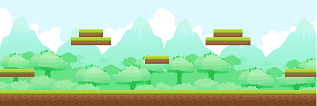
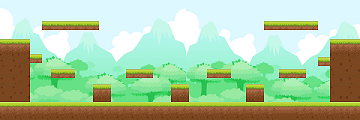
fix/ map fixes (#117)
* removed debuglines on maps

* added new picture for in controlsScreen. Animal now have healthBar

* modified maps to fit smaller animals. Changed images in Maps-menu to match new maps

diff --git a/game/core/src/ntnu/gruppe22/game/maps/Map.java b/game/core/src/ntnu/gruppe22/game/maps/Map.java
@@ -27,7 +27,6 @@ public class Map{
 
     //Box2d variables
     private World world;
-    private Box2DDebugRenderer b2dr;
     private B2WorldCreator creator;
 
     //map paths
@@ -37,7 +36,6 @@ public class Map{
 
     public Map(World world) {
         this.world = world; // !!NB Do not move. The world needs to be created first
-        b2dr = new Box2DDebugRenderer();
         setChosenMap();
 
         //render tile maps
@@ -52,7 +50,6 @@ public class Map{
     public void update(OrthographicCamera camera){
         renderer.render();
         renderer.setView(camera);
-        b2dr.render(world, camera.combined); //Box2DDebugLines
     }
 
     private void setChosenMap(){

diff --git a/game/core/src/ntnu/gruppe22/game/scenes/ControlsScreen.java b/game/core/src/ntnu/gruppe22/game/scenes/ControlsScreen.java
@@ -17,7 +17,7 @@ public class ControlsScreen extends Menu {
         this.initializeMenu(game);
         backBtn = new ControlsScreenButtons(game);
         bg = new Texture("backgrounds/menu-bg.png");
-        controlImg = new Texture("controls/controls.jpg");
+        controlImg = new Texture("controls/screen.jpg");
     }
 
     @Override
